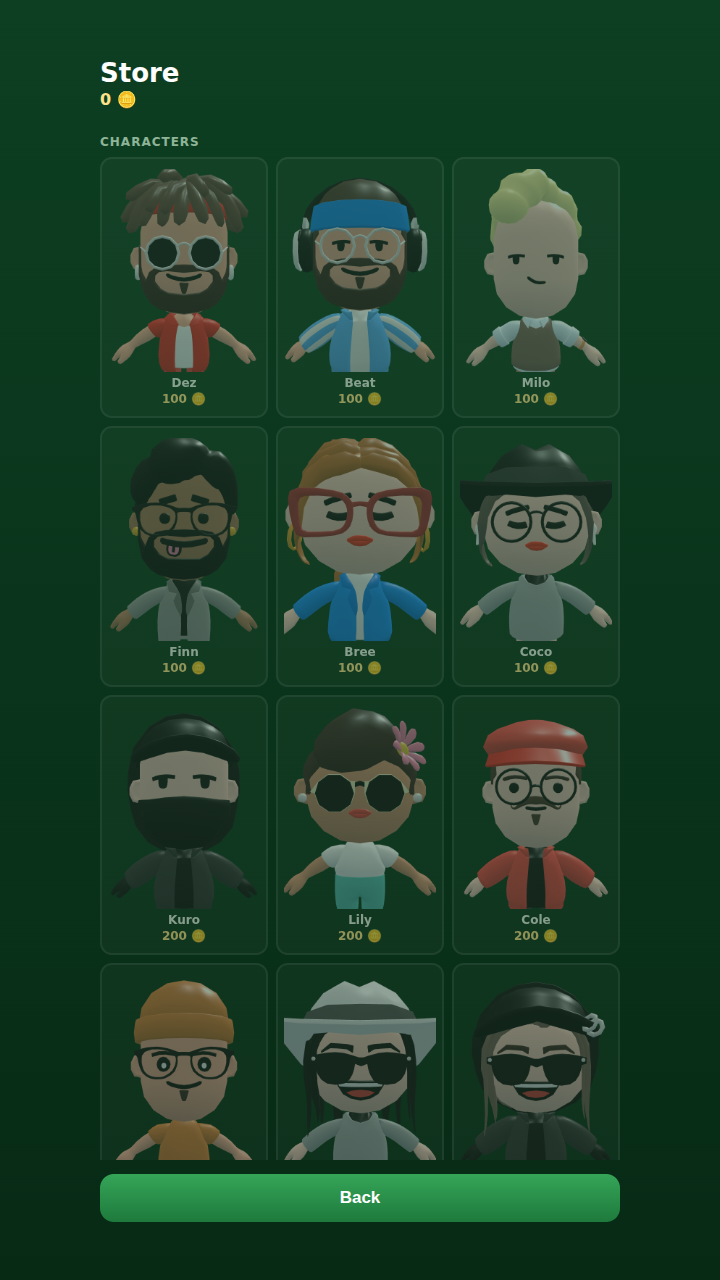
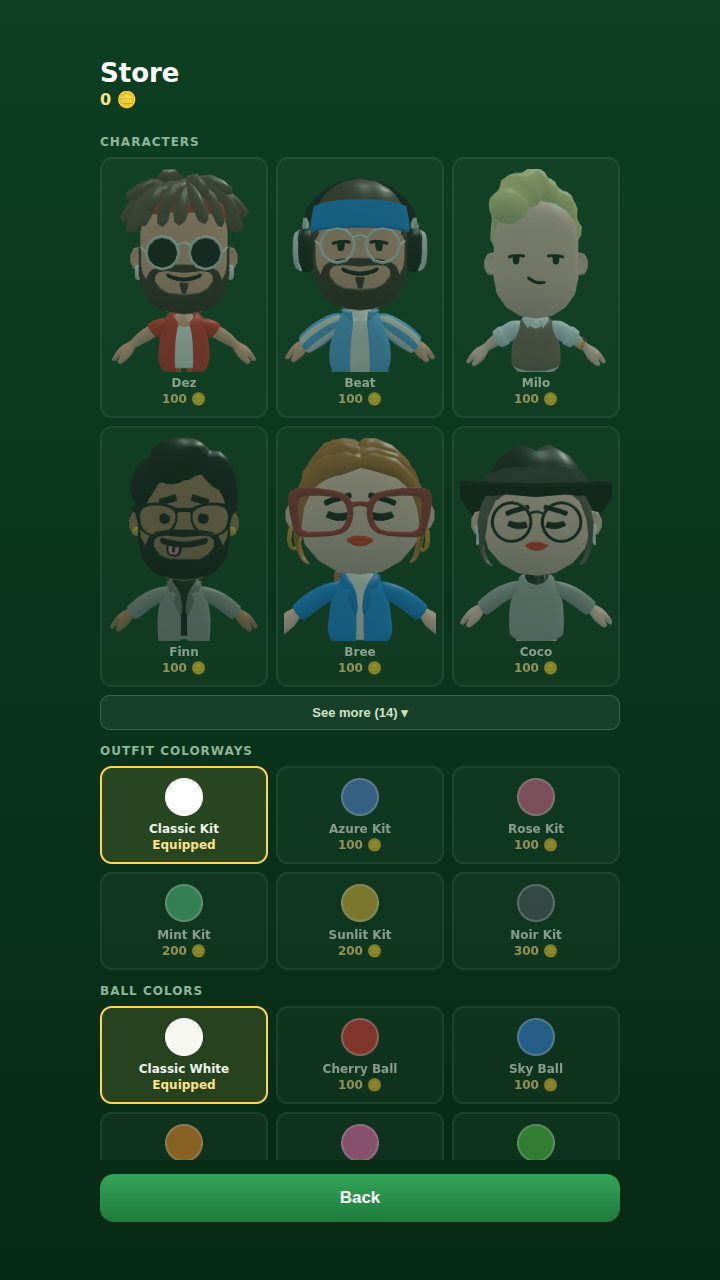
Fix cloud save (stable uid), prominent login button + logout, owned-only select, store see-more
Cloud save (the real 'not saving progress' bug):
- ensureFirebase now awaits auth.authStateReady() before deciding to sign in.
  auth.currentUser is null synchronously right after getAuth(), so the old code
  minted a NEW anonymous uid on every load — stranding all saved progress under
  the previous uid and dropping the Google link. Also completes a pending
  redirect link (getRedirectResult).

Login UI:
- Main-menu account control: a green 'Link Google account' button styled like the
  wizard's Next button when signed out; a '✓ Signed in as <name>' row with a
  Log out button once linked (new signOutAccount + renderAcctMenu). Reflects the
  real persistent state; the profile overlay stays in sync.

Character select / store (playtest FB9):
- Select shows only OWNED characters again (locked cards that routed to the Store
  on tap made scrolling feel touchy).
- Store Characters section collapses to two rows with a 'See more (N)' toggle;
  the other categories stay reachable without a long scroll.

Claude-Session: https://claude.ai/code/session_011PcHyXV5vafdmwzez1U5f2

diff --git a/src/slice3d/main.ts b/src/slice3d/main.ts
@@ -43,7 +43,7 @@ import {
   TournamentEntry
 } from '../firebase/Tournaments';
 import { mulberry32 } from '../utils/Random';
-import { authConfigured, cloudSyncProfile, cloudUid, googleLinked, linkedAccountName, linkGoogleAccount } from '../firebase/FirebaseClient';
+import { authConfigured, cloudSyncProfile, cloudUid, linkedAccountName, linkGoogleAccount, signOutAccount } from '../firebase/FirebaseClient';
 import { CosmeticKind, loadProfile, PlayerProfile, resetProfileRecords, saveProfile } from '../profile/Profile';
 import { ACHIEVEMENTS, emptyRoundStats, RoundStats, xpForLevel, dailyChallengeFor } from '../data/progression';
 import { applyRound, RewardEvent } from '../systems/ProgressionEngine';
@@ -1806,9 +1806,8 @@ function wireAccountRow(): void {
       }
       status.textContent = name === 'redirect' ? 'Redirecting to Google…' : `✓ Signed in as ${name} — progress syncs across devices`;
       btn.style.display = 'none';
-      // Keep the main-menu prompt in sync too.
-      const menuBtn = document.getElementById('linkGoogleMenu');
-      if (menuBtn) menuBtn.style.display = 'none';
+      // Keep the main-menu account control in sync too.
+      renderAcctMenu();
       // Re-sync so the just-linked account immediately owns the current profile.
       void cloudSyncProfile(profile).then((merged) => {
         Object.assign(profile, merged);
@@ -1850,6 +1849,10 @@ function statCell(value: number | string, label: string): string {
 }
 
 const storeEl = document.getElementById('store')!;
+/** The Characters store section starts collapsed to two rows (playtest FB9). */
+let storeCharsExpanded = false;
+/** Character cards shown before "See more" (two rows of the 3-wide grid). */
+const STORE_CHAR_PREVIEW = 6;
 
 /** Store overlay (Phase 7): buy/equip cosmetics + club upgrades with coins. */
 function renderStore(): void {
@@ -1868,17 +1871,32 @@ function renderStore(): void {
   };
   const section = (title: string, kind: StoreItem['kind']): string =>
     `<div class="storeTab">${title}</div><div class="storeGrid">${STORE_CATALOG.filter((i) => i.kind === kind).map(card).join('')}</div>`;
+  // Characters collapse to two rows with a See-more toggle (there are 20+),
+  // so the other categories stay reachable without a long scroll (FB9).
+  const charItems = STORE_CATALOG.filter((i) => i.kind === 'character');
+  const shownChars = storeCharsExpanded ? charItems : charItems.slice(0, STORE_CHAR_PREVIEW);
+  const seeMore =
+    charItems.length > STORE_CHAR_PREVIEW
+      ? `<button id="charSeeMore" class="storeSeeMore">${storeCharsExpanded ? 'Show fewer ▴' : `See more (${charItems.length - STORE_CHAR_PREVIEW}) ▾`}</button>`
+      : '';
+  const charactersSection = `<div class="storeTab">Characters</div><div class="storeGrid">${shownChars.map(card).join('')}</div>${seeMore}`;
   storeEl.style.display = 'flex';
   storeEl.innerHTML =
     `<div class="storeInner"><h2>Store</h2><div class="storeCoins">${p.coins} 🪙</div>` +
     `<div class="storeScroll">` +
-    section('Characters', 'character') +
+    charactersSection +
     section('Outfit Colorways', 'outfit') +
     section('Ball Colors', 'ball') +
     section('Ball Trails', 'trail') +
     section('Club Skins', 'clubskin') +
     section('Club Upgrades', 'clubUpgrade') +
     `</div><button id="storeBack">Back</button></div>`;
+  const seeMoreBtn = document.getElementById('charSeeMore');
+  if (seeMoreBtn)
+    seeMoreBtn.addEventListener('pointerdown', () => {
+      storeCharsExpanded = !storeCharsExpanded;
+      renderStore();
+    });
   storeEl.querySelectorAll('.storeCard').forEach((el) =>
     el.addEventListener('pointerdown', () => {
       const id = (el as HTMLElement).dataset.item!;
@@ -2455,40 +2473,28 @@ function renderName(): void {
 }
 
 function renderCharacter(): void {
-  // Show the WHOLE roster (playtest FB9): owned characters are selectable;
-  // locked ones carry a lock + price badge and, when tapped, jump to the Store
-  // so the full lineup is always visible — "where are the rest" is answered.
-  const isCharOwned = (key: string): boolean => profile.cosmetics.owned.includes(`char_${key}`);
-  const priceOf = (key: string): number => STORE_CATALOG.find((i) => i.id === `char_${key}`)?.price ?? 0;
-  if (!isCharOwned(sel.character)) {
-    const firstOwned = CHARACTERS.find((c) => isCharOwned(c.key));
-    if (firstOwned) sel.character = firstOwned.key;
-  }
+  // Only OWNED characters here (playtest FB9): showing locked cards that routed
+  // to the Store on tap made the grid feel touchy while scrolling. Unlock more
+  // in the Store; a purchased character then appears here.
+  const owned = CHARACTERS.filter((ch) => profile.cosmetics.owned.includes(`char_${ch.key}`));
+  if (!owned.some((c) => c.key === sel.character)) sel.character = owned[0]?.key ?? CHARACTERS[0].key;
   stepBodyEl.innerHTML =
     `<div class="stepTitle">Pick your character</div>` +
-    `<div class="stepHint">Just for looks — tap a locked one to unlock it in the Store.</div>` +
+    `<div class="stepHint">Just for looks — unlock more in the Store.</div>` +
     `<div class="charGrid">` +
-    CHARACTERS.map((ch) => {
-      const owned = isCharOwned(ch.key);
-      const selCls = owned && sel.character === ch.key ? ' sel' : '';
-      const lock = owned ? '' : `<div class="lockBadge">🔒 ${priceOf(ch.key)}</div>`;
-      return (
-        `<div class="charCard${selCls}${owned ? '' : ' locked'}" data-ch="${ch.key}" data-owned="${owned ? 1 : 0}">` +
-        `<img src="ui/characters/${ch.key}.png" alt="${ch.name}" />${lock}` +
-        `<div class="cn">${ch.name}</div></div>`
-      );
-    }).join('') +
+    owned
+      .map(
+        (ch) =>
+          `<div class="charCard${sel.character === ch.key ? ' sel' : ''}" data-ch="${ch.key}">` +
+          `<img src="ui/characters/${ch.key}.png" alt="${ch.name}" />` +
+          `<div class="cn">${ch.name}</div></div>`
+      )
+      .join('') +
     `</div>`;
   stepBodyEl.querySelectorAll('.charCard').forEach((el) =>
     el.addEventListener('pointerdown', () => {
-      const card = el as HTMLElement;
-      const key = card.dataset.ch as CharacterKey;
-      if (card.dataset.owned === '1') {
-        sel.character = key;
-        renderCharacter();
-      } else {
-        renderStore(); // locked — send the player to the Store to unlock it
-      }
+      sel.character = (el as HTMLElement).dataset.ch as CharacterKey;
+      renderCharacter();
     })
   );
 }
@@ -2593,46 +2599,56 @@ function escapeHtml(s: string): string {
 }
 
 /**
- * Main-menu "Link Google" entry point (playtest FB9): surfaces account linking
- * where it's obvious instead of burying it in the profile overlay. Hidden when
- * auth isn't configured or the account is already linked; on success it syncs
- * the profile and tucks itself away. The profile overlay keeps its own control.
+ * Prominent main-menu account control (playtest FB9): a green Link-Google button
+ * (styled like the wizard's Next button) when signed out; a "✓ Signed in as …"
+ * row with a Log out button once linked. Surfaces account linking where it's
+ * obvious and reflects the real, persistent state. The profile overlay keeps its
+ * own copy of the control too.
  */
-function wireMenuGoogleLink(): void {
-  const btn = document.getElementById('linkGoogleMenu') as HTMLButtonElement | null;
-  if (!btn) return;
+function renderAcctMenu(): void {
+  const el = document.getElementById('acctMenu');
+  if (!el) return;
   if (!authConfigured()) {
-    btn.style.display = 'none';
+    el.innerHTML = '';
     return;
   }
-  // Show the prompt right away (don't wait on a Firebase round-trip that can
-  // hang offline); only tuck it away once we confirm the account is linked.
-  btn.style.display = '';
-  void googleLinked().then((linked) => {
-    if (linked) btn.style.display = 'none';
-  });
-  btn.addEventListener('pointerdown', () => {
-    btn.disabled = true;
-    btn.textContent = '🔗 Opening Google…';
-    void linkGoogleAccount().then((name) => {
-      if (!name) {
-        btn.textContent = '🔗 Link Google';
-        btn.disabled = false;
-        return;
-      }
-      if (name === 'redirect') {
-        btn.textContent = '🔗 Redirecting…';
-        return;
-      }
-      btn.textContent = `✓ Linked as ${name}`;
-      void cloudSyncProfile(profile).then((merged) => {
-        Object.assign(profile, merged);
-        saveProfile(profile);
+  // Show the Link button immediately (don't block on a Firebase round-trip);
+  // swap to the signed-in row once we confirm the linked account.
+  const showLinkButton = (): void => {
+    el.innerHTML = `<button id="acctLinkBtn" class="acctBtn">🔗 Link Google account</button>`;
+    const btn = document.getElementById('acctLinkBtn') as HTMLButtonElement;
+    btn.addEventListener('pointerdown', () => {
+      btn.disabled = true;
+      btn.textContent = '🔗 Opening Google…';
+      void linkGoogleAccount().then((name) => {
+        if (!name) {
+          btn.disabled = false;
+          btn.textContent = '🔗 Link Google account';
+          return;
+        }
+        if (name === 'redirect') {
+          btn.textContent = '🔗 Redirecting…';
+          return;
+        }
+        void cloudSyncProfile(profile).then((merged) => {
+          Object.assign(profile, merged);
+          saveProfile(profile);
+        });
+        showSignedIn(name);
       });
-      setTimeout(() => {
-        btn.style.display = 'none';
-      }, 1800);
     });
+  };
+  const showSignedIn = (name: string): void => {
+    el.innerHTML =
+      `<div class="acctSignedIn"><span class="acctWho">✓ Signed in as <b>${escapeHtml(name)}</b></span>` +
+      `<button id="acctLogout" class="acctLogout">Log out</button></div>`;
+    document.getElementById('acctLogout')!.addEventListener('pointerdown', () => {
+      void signOutAccount().then(() => showLinkButton());
+    });
+  };
+  showLinkButton();
+  void linkedAccountName().then((name) => {
+    if (name) showSignedIn(name);
   });
 }
 
@@ -2640,7 +2656,7 @@ document.getElementById('recordsLink')!.addEventListener('pointerdown', () => re
 document.getElementById('storeLink')!.addEventListener('pointerdown', () => renderStore());
 document.getElementById('profileLink')!.addEventListener('pointerdown', () => renderProfile());
 document.getElementById('tournyLink')!.addEventListener('pointerdown', () => renderTournaments());
-wireMenuGoogleLink();
+renderAcctMenu();
 backBtn.addEventListener('pointerdown', () => goStep(sel.step - 1));
 nextBtn.addEventListener('pointerdown', () => {
   if (sel.step < stepLabels().length - 1) goStep(sel.step + 1);

diff --git a/index.html b/index.html
@@ -1047,6 +1047,59 @@
         justify-content: center;
         flex-wrap: wrap;
       }
+      /* Main-menu account button (styled like the Next button) + signed-in row */
+      .acctMenu {
+        margin: 14px auto 0;
+      }
+      .acctMenu:empty {
+        display: none;
+      }
+      .acctBtn {
+        display: block;
+        width: 100%;
+        padding: 13px 16px;
+        border: none;
+        border-radius: 12px;
+        background: linear-gradient(180deg, #35a558, #1e7a3c);
+        color: #fff;
+        font-size: 15px;
+        font-weight: 800;
+        letter-spacing: 0.4px;
+        cursor: pointer;
+        box-shadow: 0 6px 16px rgba(0, 0, 0, 0.4);
+      }
+      .acctBtn:disabled {
+        opacity: 0.6;
+      }
+      .acctSignedIn {
+        display: flex;
+        align-items: center;
+        justify-content: center;
+        gap: 12px;
+        padding: 10px 14px;
+        border-radius: 12px;
+        background: linear-gradient(180deg, rgba(53, 165, 88, 0.18), rgba(30, 122, 60, 0.08));
+        border: 1px solid rgba(53, 165, 88, 0.4);
+      }
+      .acctSignedIn .acctWho {
+        color: #d7f0dc;
+        font-size: 14px;
+        font-weight: 700;
+      }
+      .acctSignedIn .acctWho b {
+        color: #fff;
+      }
+      .acctLogout {
+        flex: 0 0 auto;
+        background: rgba(255, 255, 255, 0.09);
+        border: 1px solid rgba(255, 255, 255, 0.22);
+        color: #dbe8d6;
+        font-size: 13px;
+        font-weight: 700;
+        padding: 7px 12px;
+        border-radius: 9px;
+        cursor: pointer;
+      }
       /* Store overlay (Phase 7) */
       .storeInner {
         width: min(96%, 560px);
@@ -1085,6 +1138,19 @@
         display: grid;
         grid-template-columns: repeat(3, 1fr);
         gap: 8px;
+      }
+      .storeSeeMore {
+        display: block;
+        width: 100%;
+        margin: 8px 0 2px;
+        padding: 9px;
+        border-radius: 10px;
+        background: rgba(255, 255, 255, 0.06);
+        border: 1px solid rgba(255, 255, 255, 0.16);
+        color: #cfe3ca;
+        font-size: 13px;
+        font-weight: 700;
+        cursor: pointer;
       }
       .storeCard {
         border-radius: 12px;
@@ -1252,12 +1318,12 @@
           <button id="backBtn">Back</button>
           <button id="nextBtn">Next</button>
         </div>
+        <div id="acctMenu" class="acctMenu"></div>
         <div class="menuLinks">
           <button id="recordsLink" class="recordsLink">🏆 Records</button>
           <button id="storeLink" class="recordsLink">🛍️ Store</button>
           <button id="profileLink" class="recordsLink">👤 Profile</button>
           <button id="tournyLink" class="recordsLink">🏁 Tournaments</button>
-          <button id="linkGoogleMenu" class="recordsLink" style="display: none">🔗 Link Google</button>
         </div>
       </div>
     </div>

diff --git a/src/firebase/FirebaseClient.ts b/src/firebase/FirebaseClient.ts
@@ -49,6 +49,12 @@ async function ensureFirebase(): Promise<FirebaseHandles> {
       } catch {
         /* no pending redirect */
       }
+      // CRITICAL: `auth.currentUser` is null synchronously right after
+      // getAuth(); the persisted session (anonymous OR the Google-linked
+      // account) restores asynchronously. Wait for it before deciding to sign
+      // in — otherwise every load minted a NEW anonymous uid, stranding all
+      // saved progress under the previous uid and dropping the Google link.
+      await auth.authStateReady();
       if (!auth.currentUser) await signInAnonymously(auth);
       return { auth, db: getDatabase(app) };
     })();
@@ -98,6 +104,23 @@ export async function linkedAccountName(): Promise<string | null> {
     return u.displayName ?? u.email ?? 'your account';
   } catch {
     return null;
+  }
+}
+
+/**
+ * Sign out of the linked account and return to a fresh anonymous guest session.
+ * The linked account's progress stays safe in the cloud under its own uid —
+ * signing back in restores it.
+ */
+export async function signOutAccount(): Promise<void> {
+  if (!authConfigured()) return;
+  try {
+    const { auth } = await ensureFirebase();
+    const { signOut, signInAnonymously } = await import('firebase/auth');
+    await signOut(auth);
+    await signInAnonymously(auth);
+  } catch {
+    /* ignore — stays on the current session */
   }
 }
 